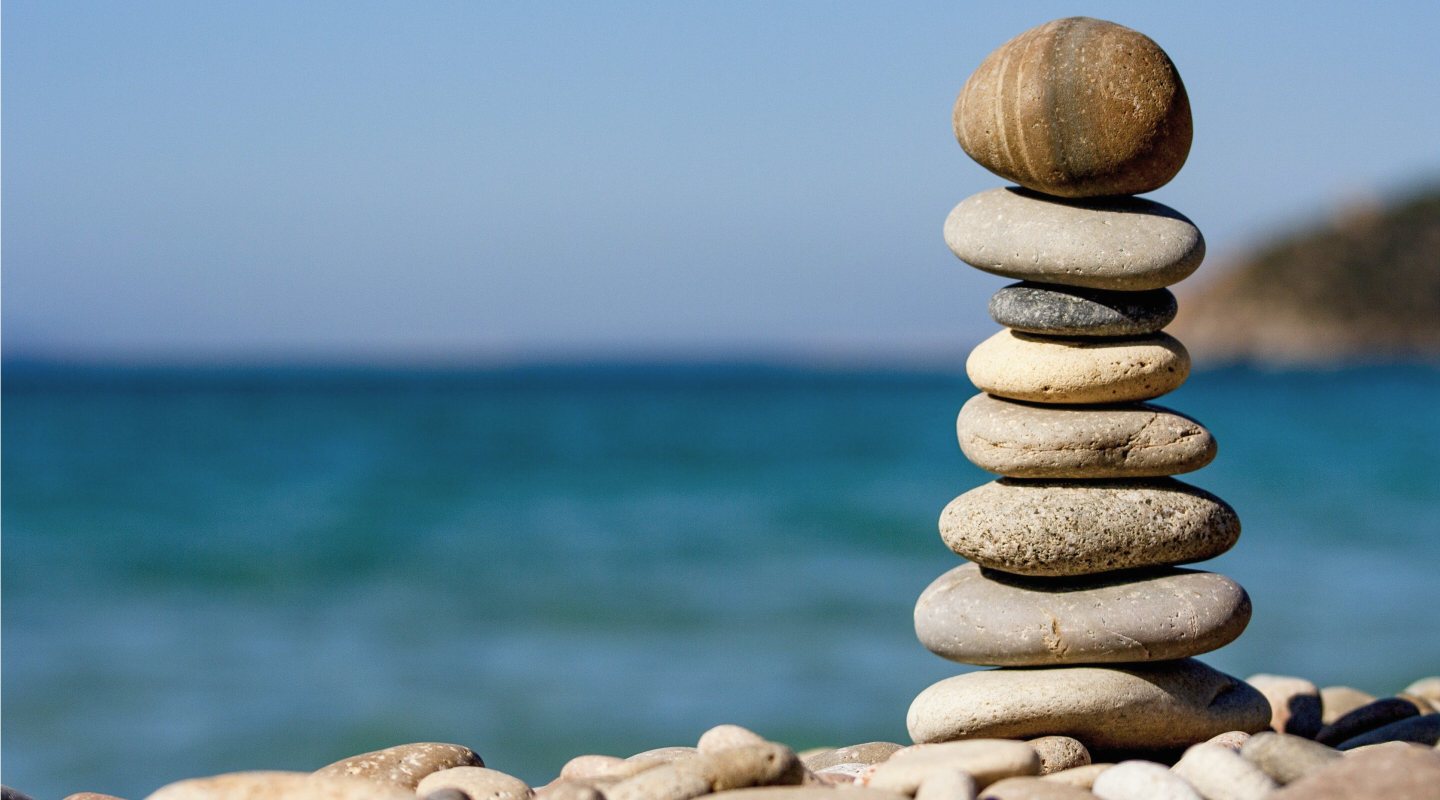
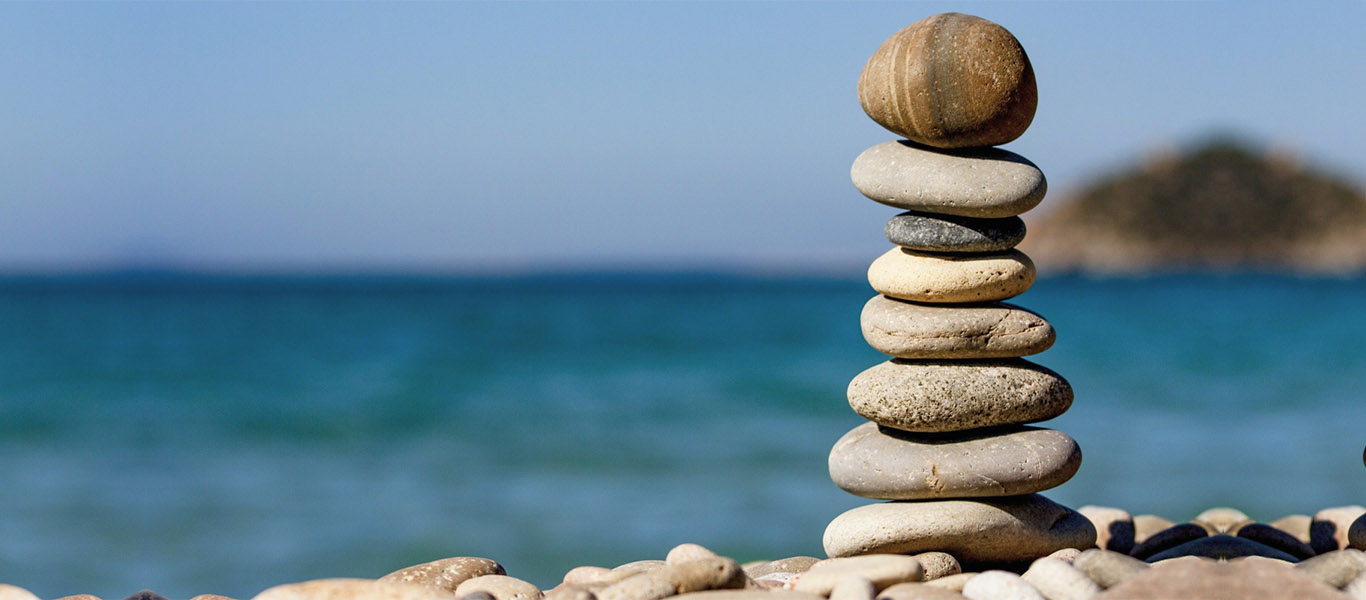
修正圖片大小

diff --git a/css/style.css b/css/style.css
@@ -29,6 +29,10 @@ header{
     height: 90px;
     display: flex;
     box-sizing: border-box;
+    /* 固定 */
+    width: 1366px;
+    margin: 0 auto;
+    /* 固定 */
 }
 
 .logo{
@@ -94,6 +98,11 @@ footer{
     height: 270px;
     padding: 30px 37px 20px;
     box-sizing: border-box;
+
+    /* 固定寬 */
+    width: 1366px;
+    margin: 0 auto;
+    /* 固定寬 */
 }
 footer a{
     color:white;
@@ -180,13 +189,13 @@ footer .icon li{
     background-image: url(../img/index_big.jpg);
     background-repeat: no-repeat;
     background-position: center;
-    width: 1440px;
+    width: 1366px;
     margin: 0 auto;
-    height: 800px;
+    height: 600px;
 }
 
 .wrapper article{
-    padding: 320px 37px;
+    padding: 240px 37px;
     box-sizing: border-box;
 }
 
